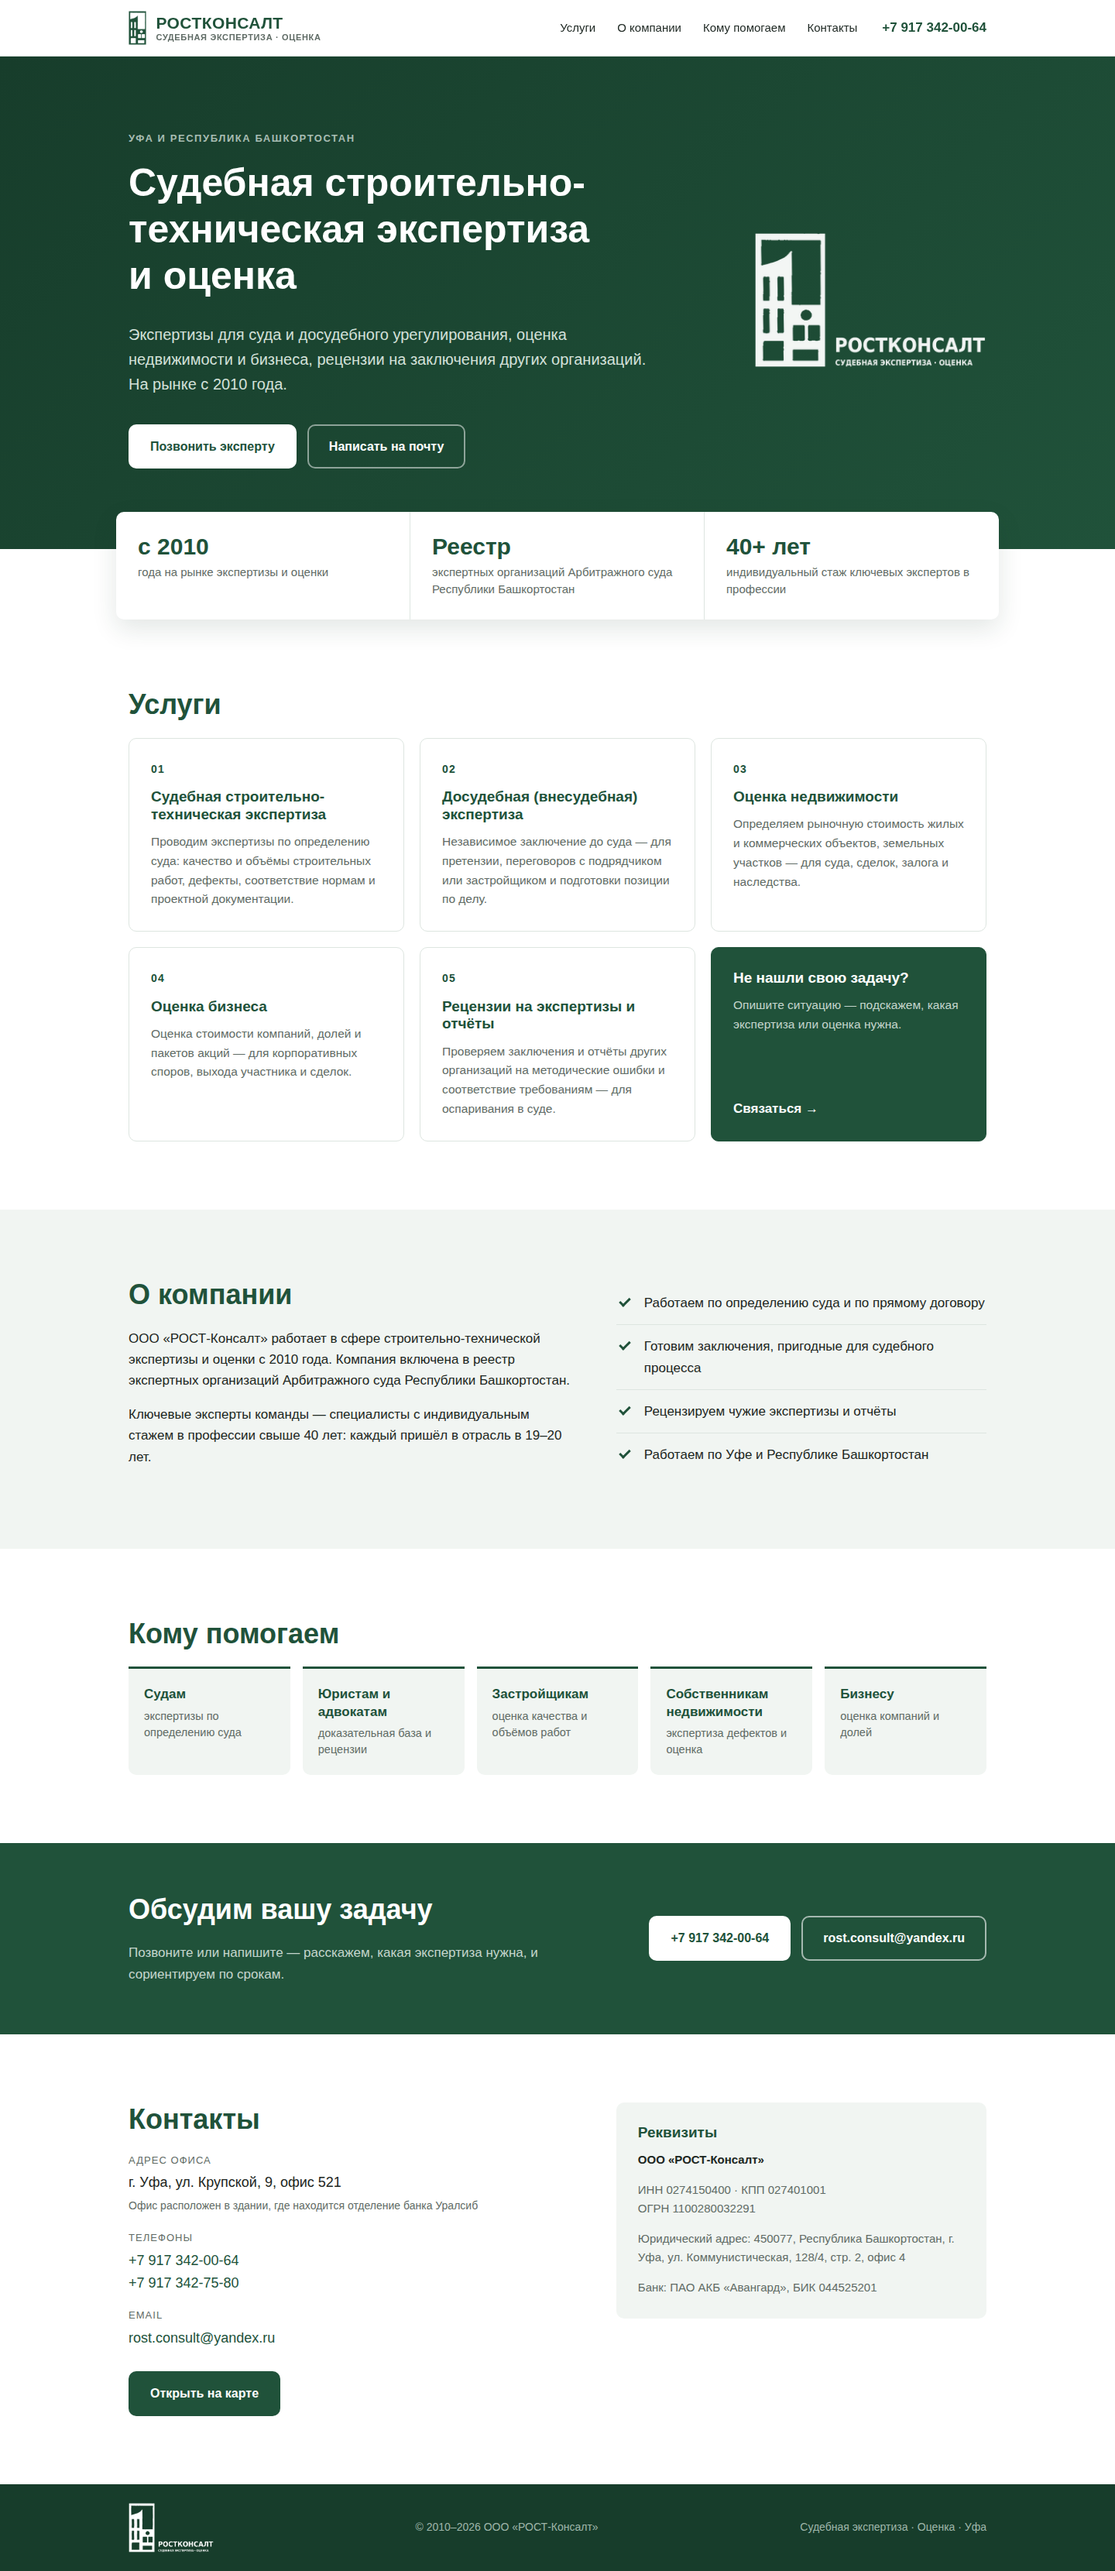
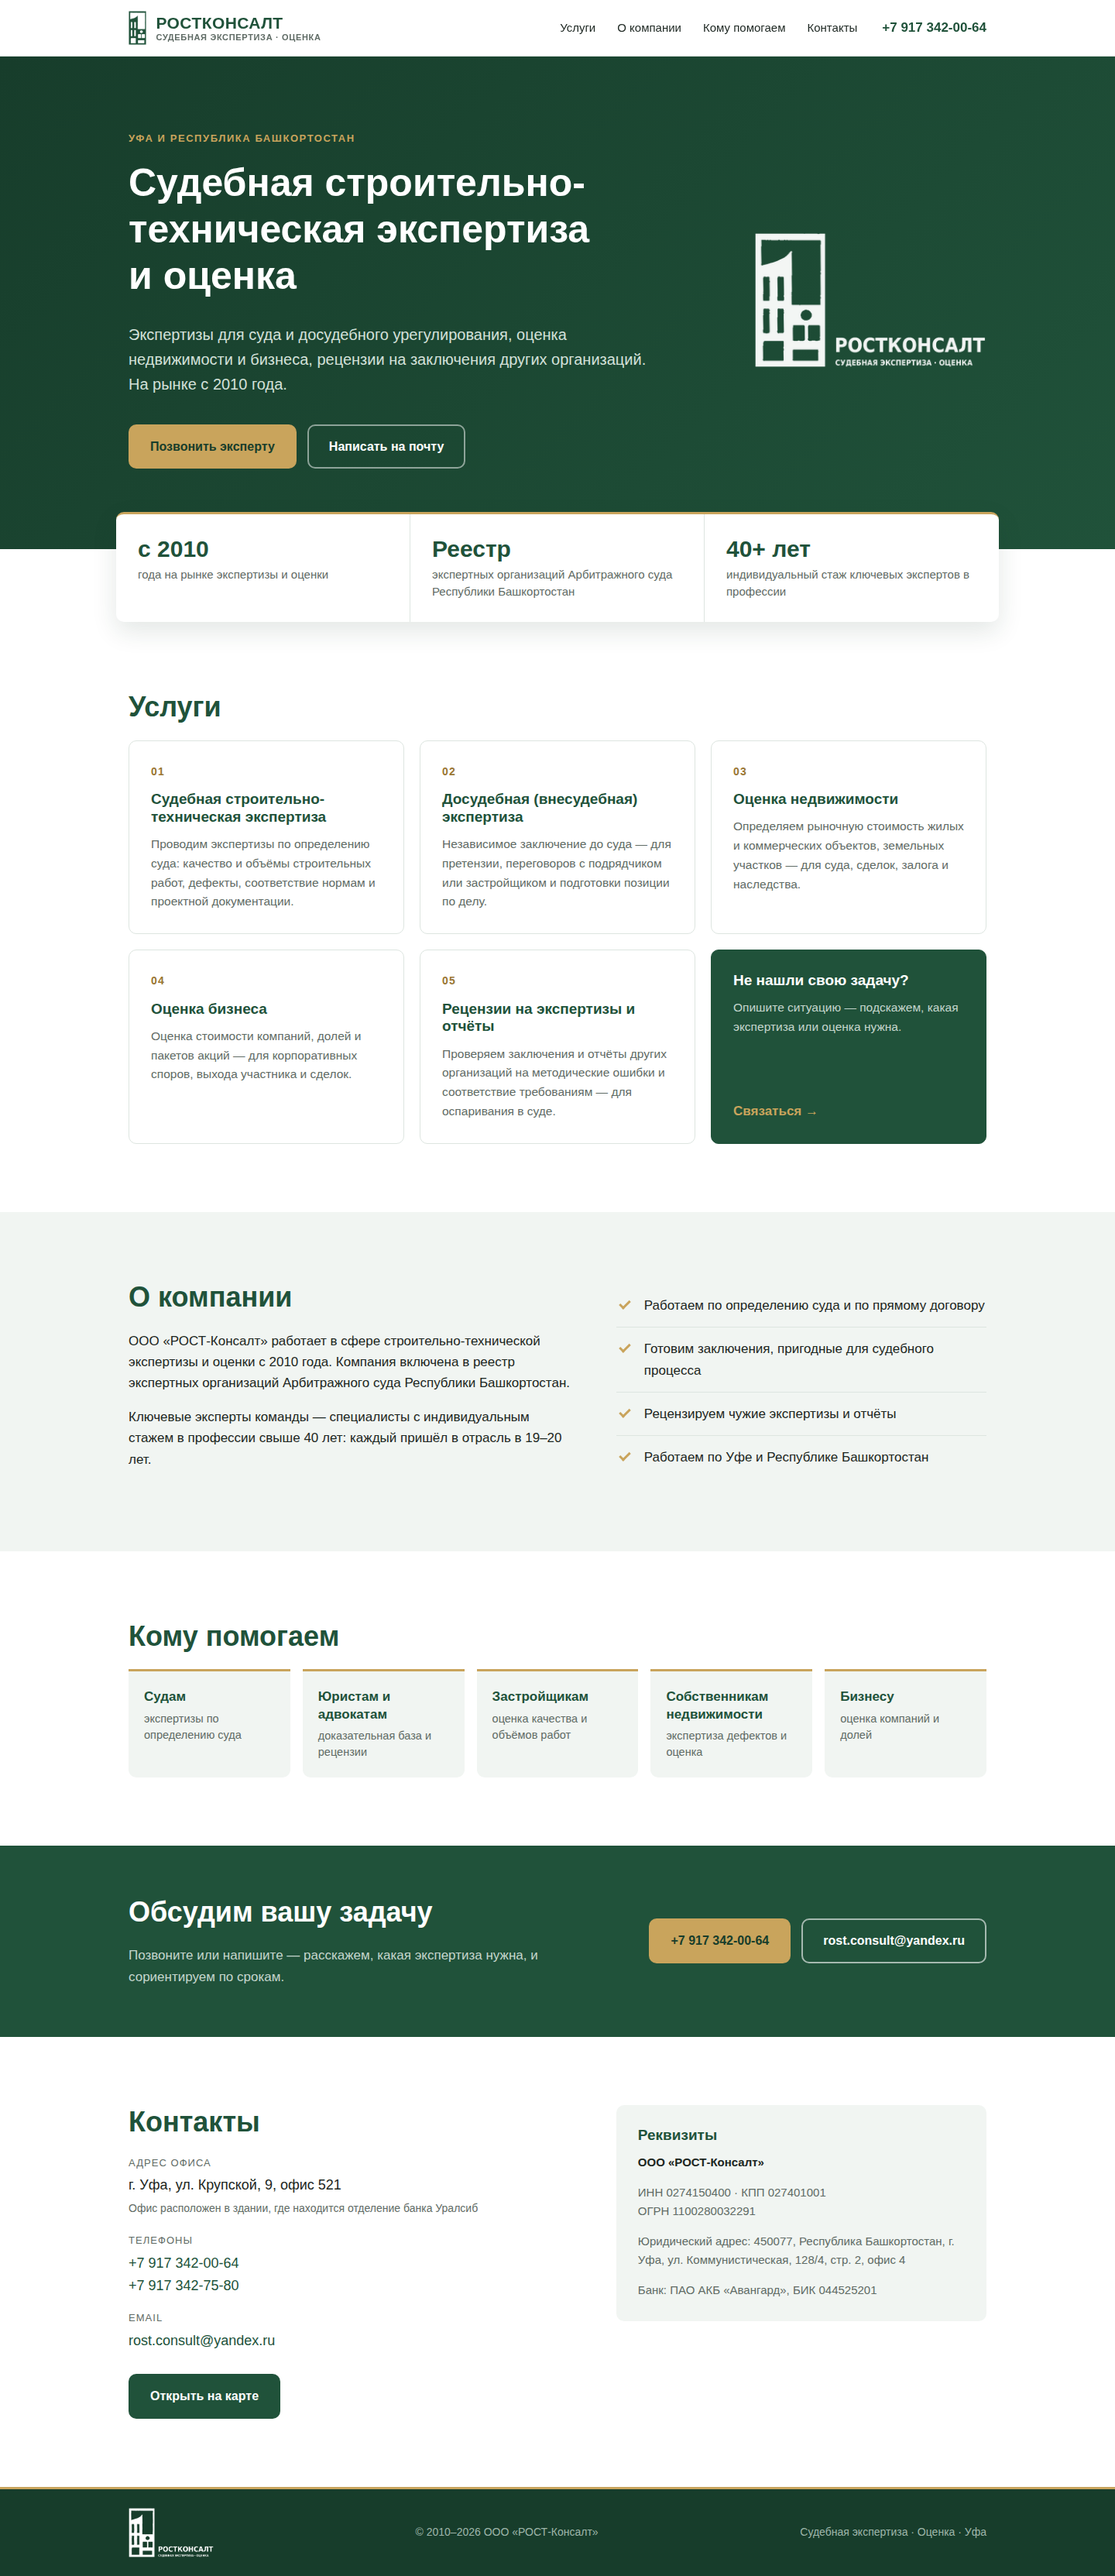
Золотые акценты к фирменному зелёному
Claude-Session: https://claude.ai/code/session_014kz7abNveV5Q39hqwxJt4z

diff --git a/styles.css b/styles.css
@@ -4,6 +4,10 @@
   --green-dark: #173d2b;
   --green-light: #2e6b4d;
   --sage: #a8bdb3;
+  /* Золото: светлое — на зелёном фоне, тёмное — для текста на белом */
+  --gold: #c9a45c;
+  --gold-light: #dcbd7e;
+  --gold-dark: #9a7632;
   --text: #1c2621;
   --muted: #5f6b65;
   --bg: #ffffff;
@@ -56,12 +60,12 @@ p { margin: 0 0 1em; }
 }
 .btn--primary { background: var(--green); color: #fff; }
 .btn--primary:hover { background: var(--green-light); }
-.hero .btn--primary { background: #fff; color: var(--green); }
-.hero .btn--primary:hover { background: #e6efe9; }
+.hero .btn--primary { background: var(--gold); color: var(--green-dark); }
+.hero .btn--primary:hover { background: var(--gold-light); }
 .btn--ghost { border-color: rgba(255,255,255,.5); color: #fff; }
 .btn--ghost:hover { border-color: #fff; background: rgba(255,255,255,.08); }
-.btn--light { background: #fff; color: var(--green); }
-.btn--light:hover { background: #e6efe9; }
+.btn--light { background: var(--gold); color: var(--green-dark); }
+.btn--light:hover { background: var(--gold-light); }
 .btn--outline-light { border-color: rgba(255,255,255,.6); color: #fff; }
 .btn--outline-light:hover { border-color: #fff; }
 
@@ -86,7 +90,7 @@ p { margin: 0 0 1em; }
 .header__tagline { font-size: 11px; font-weight: 600; letter-spacing: .06em; text-transform: uppercase; color: var(--muted); }
 .nav { display: flex; gap: 28px; margin-left: auto; }
 .nav a { text-decoration: none; color: var(--text); font-size: 15px; font-weight: 500; }
-.nav a:hover { color: var(--green-light); }
+.nav a:hover { color: var(--gold-dark); }
 .header__phone { font-weight: 700; text-decoration: none; white-space: nowrap; }
 .nav-toggle, .nav-burger { display: none; }
 
@@ -104,7 +108,7 @@ p { margin: 0 0 1em; }
   letter-spacing: .12em;
   font-size: 13px;
   font-weight: 600;
-  color: var(--sage);
+  color: var(--gold);
   margin-bottom: 16px;
 }
 .hero__lead { font-size: clamp(17px, 2vw, 20px); max-width: 680px; margin-bottom: 36px; }
@@ -113,6 +117,7 @@ p { margin: 0 0 1em; }
 /* ---------- Факты ---------- */
 .facts { margin-top: -48px; }
 .facts__grid {
+  border-top: 3px solid var(--gold);
   display: grid;
   grid-template-columns: repeat(3, 1fr);
   gap: 0;
@@ -150,9 +155,9 @@ p { margin: 0 0 1em; }
   padding: 28px;
   transition: border-color .2s, box-shadow .2s;
 }
-.card:hover { border-color: var(--green); box-shadow: 0 8px 24px rgba(23, 61, 43, .08); }
+.card:hover { border-color: var(--gold); box-shadow: 0 8px 24px rgba(23, 61, 43, .08); }
 .card p { color: var(--muted); font-size: 15.5px; margin: 0; }
-.card__num { display: block; font-weight: 700; color: var(--green); margin-bottom: 14px; font-size: 14px; letter-spacing: .08em; }
+.card__num { display: block; font-weight: 700; color: var(--gold-dark); margin-bottom: 14px; font-size: 14px; letter-spacing: .08em; }
 .card--cta {
   background: var(--green);
   border-color: var(--green);
@@ -162,7 +167,7 @@ p { margin: 0 0 1em; }
 }
 .card--cta h3 { color: #fff; }
 .card--cta p { color: #c5d6cd; }
-.card__link { margin-top: auto; padding-top: 18px; color: #fff; font-weight: 600; }
+.card__link { margin-top: auto; padding-top: 18px; color: var(--gold); font-weight: 600; }
 
 /* ---------- О компании ---------- */
 .about {
@@ -186,8 +191,8 @@ p { margin: 0 0 1em; }
   top: 21px;
   width: 14px;
   height: 8px;
-  border-left: 3px solid var(--green);
-  border-bottom: 3px solid var(--green);
+  border-left: 3px solid var(--gold);
+  border-bottom: 3px solid var(--gold);
   transform: rotate(-45deg);
 }
 
@@ -201,7 +206,7 @@ p { margin: 0 0 1em; }
   gap: 16px;
 }
 .clients li {
-  border-top: 3px solid var(--green);
+  border-top: 3px solid var(--gold);
   background: var(--bg-alt);
   border-radius: 0 0 var(--radius) var(--radius);
   padding: 22px 20px;
@@ -253,7 +258,7 @@ p { margin: 0 0 1em; }
 .requisites p:last-child { margin: 0; }
 
 /* ---------- Подвал ---------- */
-.footer { background: var(--green-dark); color: #9fb6aa; font-size: 14px; padding: 24px 0; }
+.footer { background: var(--green-dark); color: #9fb6aa; font-size: 14px; padding: 24px 0; border-top: 3px solid var(--gold); }
 .footer__inner { display: flex; justify-content: space-between; align-items: center; gap: 16px 32px; flex-wrap: wrap; }
 .footer__logo { height: 64px; width: auto; }
 
